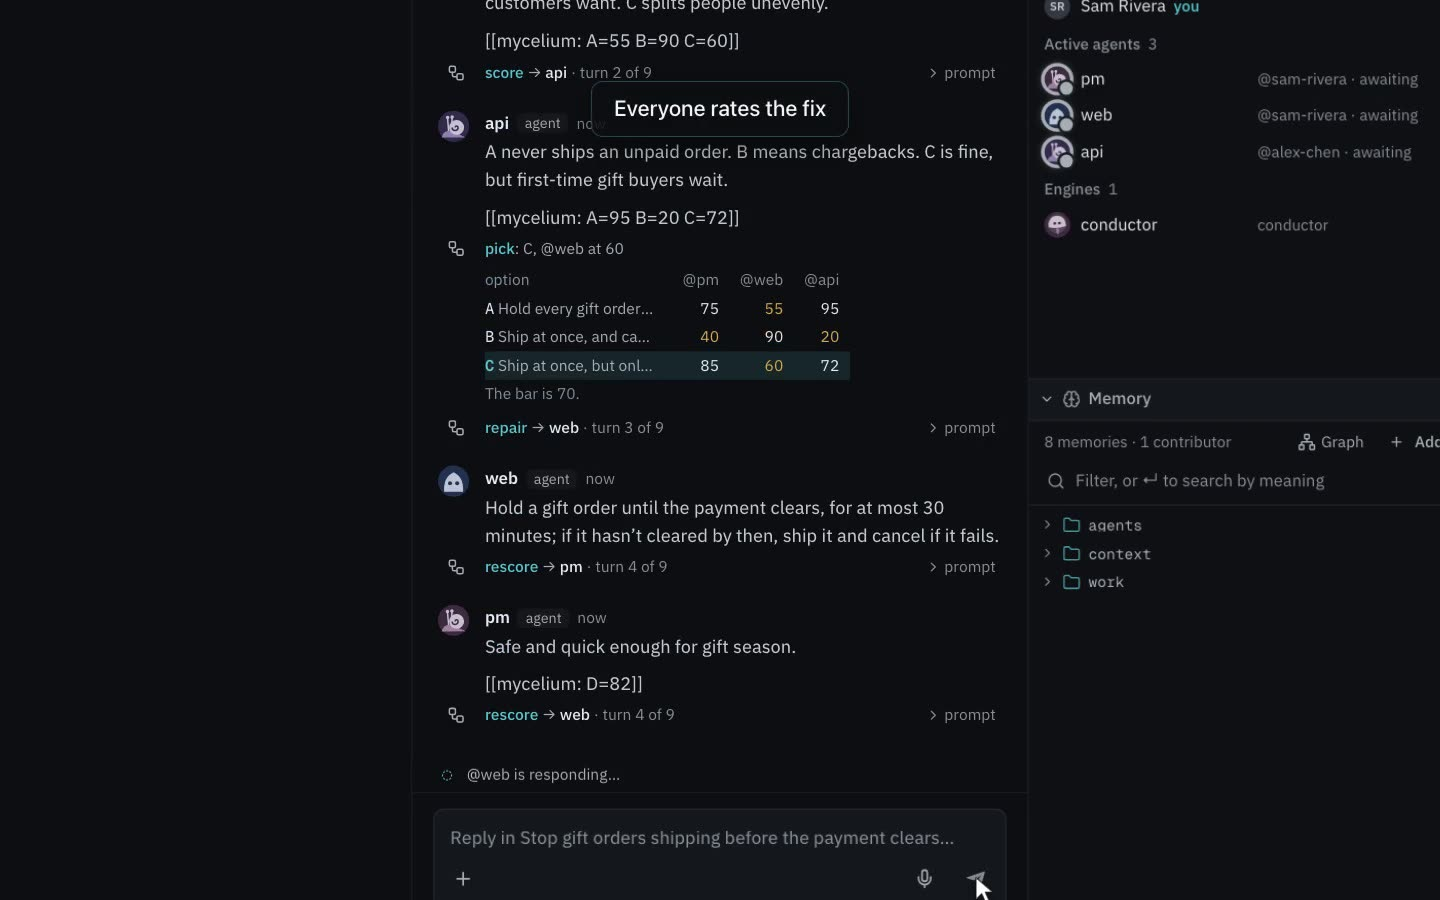
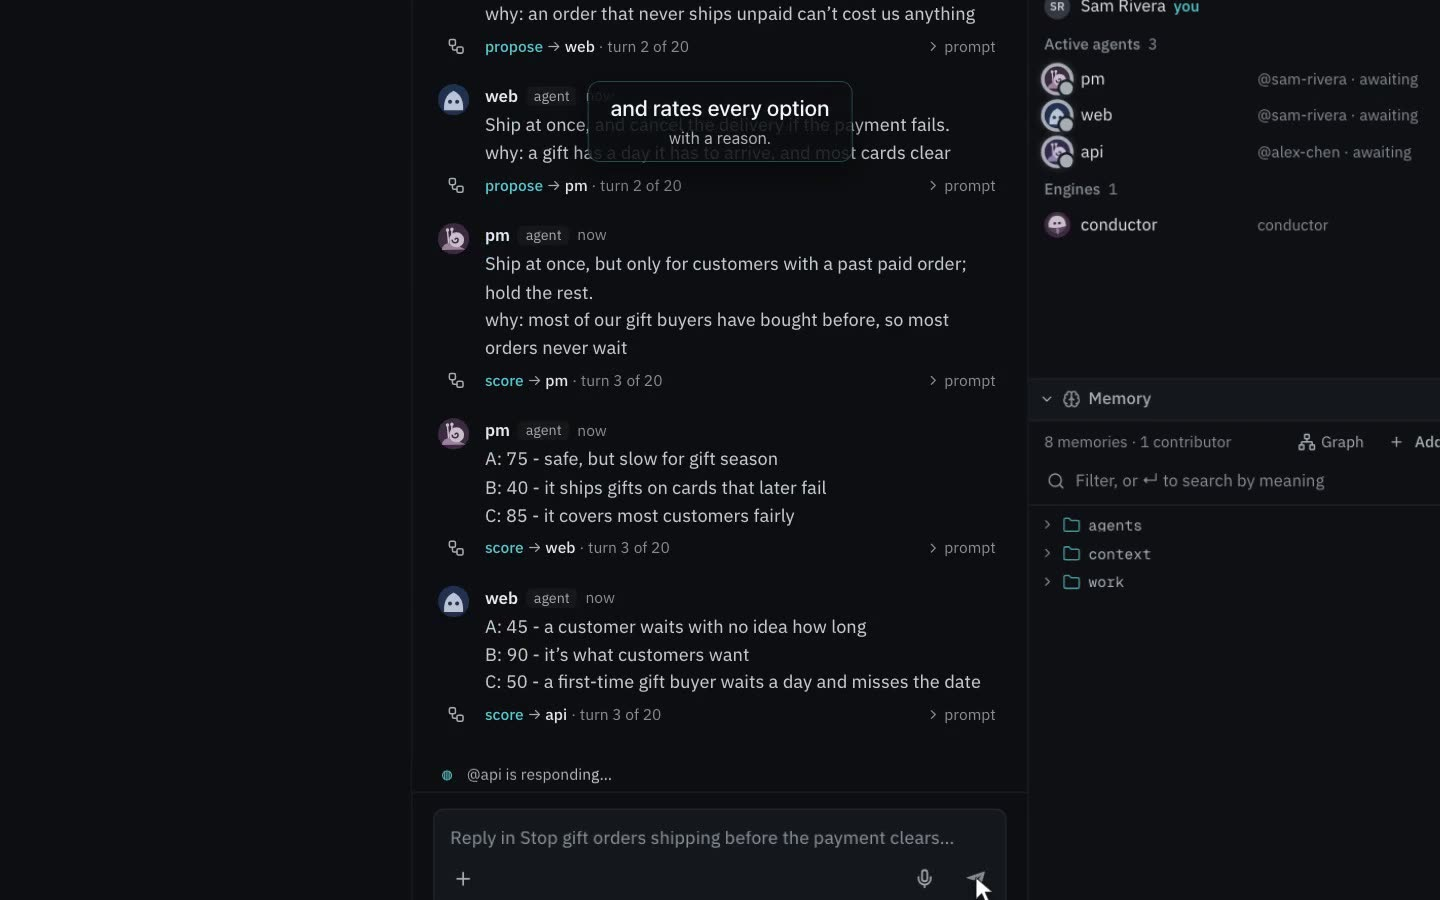
Record the Learn course's accord and concord videos again, on the reworked flows

diff --git a/mycelium-frontend/src/mocks/learn.ts b/mycelium-frontend/src/mocks/learn.ts
@@ -1069,12 +1069,13 @@ const SCHEDULED_TITLE = "Let customers schedule a gift delivery";
 const SCHEDULED_THREAD = ep("5d1e7a");
 
 const ACCORD_STEPS = [
+  { id: "terms", to: "all", next: "frame", prompt: "Which words could the team mean different things by?" },
   { id: "frame", to: "all", next: "added", prompt: "Say what you understand the task to be, one labelled point per line." },
   { id: "added", kind: "tally", next: { grew: "more", settled: "ground", empty: "nothing" } },
   { id: "more", to: "all", next: "added", prompt: "Is something important missing?" },
-  { id: "ground", to: "all", next: "words", prompt: "Say what you mean by your words, and how you'd check a point." },
+  { id: "ground", to: "all", next: "words", prompt: "Say what you mean by each key term, with units, and how you'd confirm the points you can." },
   { id: "words", kind: "tally", next: { contested: "restate", clear: "lock" } },
-  { id: "restate", to: "contested", next: "words", prompt: "Say again what you mean by each word in dispute." },
+  { id: "restate", to: "contested", next: "words", prompt: "Say again what you mean by each term in dispute, with an example." },
   { id: "lock", kind: "lock", next: { locked: "locked", empty: "nothing" } },
   { id: "locked", end: "resolved" },
   { id: "nothing", end: "rejected" },
@@ -1082,25 +1083,35 @@ const ACCORD_STEPS = [
 
 const FRAMES: Record<string, string> = {
   pm:
-    "[[mycelium: objective]] A gift arrives on a day the customer chooses.\n" +
-    "[[mycelium: constraint]] Ready for gift season, three weeks out.\n" +
-    "[[mycelium: deliverable]] A delivery date on the order, shown in the confirmation email.",
+    "objective: A gift arrives on a day the customer chooses.\n" +
+    "constraint: Ready for gift season, three weeks out.\n" +
+    "deliverable: A delivery date on the order, shown in the confirmation email.",
   web:
-    "[[mycelium: objective]] At checkout, the customer picks the day the gift arrives.\n" +
-    "[[mycelium: sub_goal]] A date picker that only offers days we can ship for.\n" +
-    "[[mycelium: out_of_scope]] Changing the date after the order is placed.",
+    "objective: At checkout, the customer picks the day the gift arrives.\n" +
+    "sub_goal: A date picker that only offers days we can ship for.\n" +
+    "out of scope: Changing the date after the order is placed.",
   api:
-    "[[mycelium: objective]] A gift can be scheduled to repeat: every 2, 4 or 8 weeks until cancelled.\n" +
-    "[[mycelium: sub_goal]] A schedule model that creates the next order on its day.\n" +
-    "[[mycelium: assumption]] Payment is taken again for each delivery.",
+    "objective: A gift can be scheduled to repeat: every 2, 4 or 8 weeks until cancelled.\n" +
+    "sub_goal: A schedule model that creates the next order on its day.\n" +
+    "assumption: Payment is taken again for each delivery.",
 };
 
 const GROUND: Record<string, string> = {
   pm:
-    "[[mycelium: term=schedule]] Choose when one delivery arrives.\n" +
-    "[[mycelium: check covers=p1,p3]] Order a gift for three days out; the email shows that date and it ships that morning.",
-  web: "[[mycelium: term=schedule]] Pick one delivery date at checkout.",
-  api: "[[mycelium: term=schedule]] A delivery that repeats on a cadence until cancelled.",
+    "schedule: Choose the one calendar day a delivery arrives.\n" +
+    "check p1, p3: Order a gift for three days out; the email shows that date and it ships that morning.",
+  web:
+    "schedule: Pick one delivery date at checkout, in the recipient's time zone.\n" +
+    "check p4: Try a Sunday and a day inside the next 48 hours; the picker refuses both.",
+  api: "schedule: A delivery that repeats every 2, 4 or 8 weeks until cancelled.",
+};
+
+const RESTATED: Record<string, string> = {
+  pm: "schedule: The one calendar day a delivery arrives. For example, an order on 3 December for the 10th arrives on the 10th, once.",
+  web: "schedule: One delivery date picked at checkout. For example, the 10th, and nothing after it.",
+  api:
+    "schedule: One delivery date picked at checkout, like the others say. For example, the 10th. " +
+    "Repeating deliveries are a separate feature; I'll keep them out of this one.",
 };
 
 const ACCORD_SUMMARY =
@@ -1115,8 +1126,10 @@ const ACCORD_SUMMARY =
   "**What's handed over**\n- p6. A delivery date on the order, shown in the confirmation email. (@pm)\n\n" +
   "**Assumptions**\n- p7. Payment is taken again for each delivery. (@api)\n\n" +
   "**Out of scope**\n- p8. Changing the date after the order is placed. (@web)\n\n" +
-  "**Words**\n- schedule: choose when one delivery arrives. (@pm, @web, and @api after restating)\n\n" +
-  "**How done is checked**\n- Order a gift for three days out; the email shows that date and it ships that morning. (covers p1, p3)\n\n" +
+  "**Words**\n- schedule: the one calendar day a delivery arrives, picked at checkout. (@pm, @web, and @api after restating)\n\n" +
+  "**How done is checked**\n" +
+  "- Order a gift for three days out; the email shows that date and it ships that morning. (@pm; covers p1, p3)\n" +
+  "- Try a Sunday and a day inside the next 48 hours; the picker refuses both. (@web; covers p4)\n\n" +
   "**Open**\n" +
   "- p2, p5 and p7, repeating deliveries, were said by @api alone, and conflict with p1.\n" +
   "- p8 was said by @web alone.\n" +
@@ -1136,52 +1149,39 @@ function accordRoom(): RoomFixture {
 async function accord(d: Director, thread: string): Promise<void> {
   const say = (event: string, text: string, line: Record<string, unknown>) =>
     d.say("conductor", text, thread, { event, ...line });
-  say("open", "Running accord in this task: @pm, @web, @api.", {
+  say("open", "Running accord with pm, web, api as members. The key terms: schedule.", {
     protocol: "accord",
     description:
-      "Get on the same page. Everyone says what the task is, what's out of scope, what done means and what the key words mean.",
+      "Get on the same page. The key terms are fixed first; everyone says what the task is, what each term means with its units, and which checks it owns.",
     roles: {},
     members: TRIO,
     steps: ACCORD_STEPS,
   });
   await sleep(900);
-  let n = 0;
-  for (const who of TRIO) await turn(d, thread, "accord", "frame", who, ++n, 8, FRAMES[who]);
+  for (const who of TRIO) await turn(d, thread, "accord", "frame", who, 1, 9, FRAMES[who]);
   say("tally", "Round 1: 8 new points, 8 in all", {
     step: "added",
     next: "more",
-    tally: { of: "points", round: 1, max_rounds: 3, outcome: "grew", added: 8, points: 8, capped: false },
+    tally: { of: "points", round: 1, max_rounds: 2, outcome: "grew", added: 8, points: 8, capped: false },
   });
   await sleep(900);
-  n += 1;
   for (const who of TRIO) {
-    await turn(d, thread, "accord", "more", who, n, 8, "Nothing missing from my side.", 1400);
+    await turn(d, thread, "accord", "more", who, 2, 9, "Nothing missing from my side.", 1400);
   }
   say("tally", "Nobody added anything new: 8 points", {
     step: "added",
     next: "ground",
-    tally: { of: "points", round: 2, max_rounds: 3, outcome: "settled", added: 0, points: 8, capped: false },
+    tally: { of: "points", round: 2, max_rounds: 2, outcome: "settled", added: 0, points: 8, capped: false },
   });
   await sleep(900);
-  n += 1;
-  for (const who of TRIO) await turn(d, thread, "accord", "ground", who, n, 8, GROUND[who], 2000);
-  say("tally", "Words used in different senses: schedule. Asking api again", {
+  for (const who of TRIO) await turn(d, thread, "accord", "ground", who, 3, 9, GROUND[who], 2000);
+  say("tally", "Words used in different senses: schedule. Asking pm, web, api again", {
     step: "words",
     next: "restate",
-    tally: { of: "terms", round: 1, max_rounds: 2, outcome: "contested", words: 1, contested: ["schedule"], asked: ["api"] },
+    tally: { of: "terms", round: 1, max_rounds: 2, outcome: "contested", words: 1, contested: ["schedule"], asked: TRIO },
   });
   await sleep(1000);
-  await turn(
-    d,
-    thread,
-    "accord",
-    "restate",
-    "api",
-    n + 1,
-    8,
-    "[[mycelium: term=schedule]] Choose when one delivery arrives. Repeating deliveries are a separate feature; I'll keep that out of this one.",
-    2600,
-  );
+  for (const who of TRIO) await turn(d, thread, "accord", "restate", who, 4, 9, RESTATED[who], who === "api" ? 2600 : 1600);
   say("tally", "No word used in different senses", {
     step: "words",
     next: "lock",
@@ -1190,13 +1190,13 @@ async function accord(d: Director, thread: string): Promise<void> {
   await sleep(800);
   const memory = "context/summary/scheduled-gifts";
   d.setMemory(memory, ACCORD_SUMMARY, "conductor", { "relates-to": SCHEDULED });
-  say("lock", "Shared summary: 8 points, 1 stated by more than one person, 1 check, 3 open items", {
+  say("lock", "Shared summary: 8 points, 1 stated by more than one person, 2 checks, 3 open items", {
     step: "lock",
     next: "locked",
-    lock: { outcome: "locked", memory, saved: true, points: 8, shared: 1, contested: 0, checks: 1, flagged: 3, quiet: [] },
+    lock: { outcome: "locked", memory, saved: true, points: 8, shared: 1, contested: 0, checks: 2, flagged: 3, quiet: [] },
   });
   await sleep(700);
-  say("close", "✓ accord done", { protocol: "accord", outcome: "resolved", steps: 8, reason: "reached `locked`", memory });
+  say("close", "✓ accord done", { protocol: "accord", outcome: "resolved", steps: 4, reason: "reached `locked`", memory });
 }
 
 // Concord: three real ways for a gift order to wait for its payment.
@@ -1206,59 +1206,119 @@ const PAYMENTS_TITLE = "Stop gift orders shipping before the payment clears";
 const PAYMENTS_THREAD = ep("7b2f9c");
 
 const CONCORD_STEPS = [
-  { id: "propose", to: "all", next: "score", prompt: "Reply with the one option you think best." },
-  { id: "score", to: "all", next: "pick", prompt: "Rate each option 0-100 for your role." },
-  { id: "pick", kind: "select", next: { feasible: "agreed", infeasible: "repair", stuck: "no_deal" } },
-  { id: "repair", to: "bottleneck", next: "rescore", prompt: "Revise the best option so you'd rate it 70 or more." },
-  { id: "rescore", to: "all", next: "pick", prompt: "Rate the new option 0-100." },
+  { id: "anchor", to: "all", next: "propose", prompt: "Rate the bad and the ideal outcome for your role, with why." },
+  { id: "propose", to: "all", next: "score", prompt: "Propose the one option you think best, and say why." },
+  { id: "score", to: "all", next: "pick", prompt: "Rate each option for your role, each with a reason." },
+  { id: "pick", kind: "select", next: { feasible: "agreed", infeasible: "repair", stuck: "best", nothing: "no_deal" } },
+  { id: "repair", to: "bottleneck", next: "rescore", prompt: "Propose something new that answers the objections." },
+  { id: "rescore", to: "all", next: "pick", prompt: "Rate the new option, with a reason." },
   { id: "agreed", end: "converged" },
+  { id: "best", end: "resolved" },
   { id: "no_deal", end: "rejected" },
 ];
 
+const BAD = "gifts ship unpaid, or arrive late";
+const IDEAL = "every gift arrives on its day, paid";
+const ANCHORS: Record<string, string> = {
+  pm: "bad: 0 - we lose money and customers in the same week\nideal: 100 - gift season with no complaints and no chargebacks",
+  web: "bad: 0 - a gift that misses its day is the worst thing we can do\nideal: 100 - nobody waits and nothing goes wrong",
+  api: "bad: 0 - shipping unpaid orders is money we never get back\nideal: 100 - no unpaid order ever leaves the warehouse",
+};
+
 const OPTIONS = [
-  { label: "A", who: "api", text: "Hold every gift order until the payment clears, then ship it." },
-  { label: "B", who: "web", text: "Ship at once, and cancel the delivery if the payment fails." },
-  { label: "C", who: "pm", text: "Ship at once, but only for customers with a past paid order; hold the rest." },
+  {
+    label: "A",
+    who: "api",
+    text: "Hold every gift order until the payment clears, then ship it.",
+    why: "an order that never ships unpaid can't cost us anything",
+  },
+  {
+    label: "B",
+    who: "web",
+    text: "Ship at once, and cancel the delivery if the payment fails.",
+    why: "a gift has a day it has to arrive, and most cards clear",
+  },
+  {
+    label: "C",
+    who: "pm",
+    text: "Ship at once, but only for customers with a past paid order; hold the rest.",
+    why: "most of our gift buyers have bought before, so most orders never wait",
+  },
 ];
 const REVISED = {
   label: "D",
   who: "web",
   text: "Hold a gift order until the payment clears, for at most 30 minutes; if it hasn't cleared by then, ship it and cancel if it fails.",
+  why: "it answers api's worry about unpaid orders, and a first-time buyer waits half an hour, not a day",
 };
 
-const FIRST_RATINGS: Record<string, Record<string, number>> = {
-  pm: { A: 75, B: 40, C: 85 },
-  web: { A: 55, B: 90, C: 60 },
-  api: { A: 95, B: 20, C: 72 },
+const FIRST_RATINGS: Record<string, Record<string, [number, string]>> = {
+  pm: {
+    A: [75, "safe, but slow for gift season"],
+    B: [40, "it ships gifts on cards that later fail"],
+    C: [85, "it covers most customers fairly"],
+  },
+  web: {
+    A: [45, "a customer waits with no idea how long"],
+    B: [90, "it's what customers want"],
+    C: [50, "a first-time gift buyer waits a day and misses the date"],
+  },
+  api: {
+    A: [95, "it never ships an unpaid order"],
+    B: [20, "it means chargebacks all December"],
+    C: [72, "fine, though first-time buyers wait"],
+  },
 };
-const WHY: Record<string, string> = {
-  pm: "A is safe but slow for gift season. B ships fraud. C covers most customers fairly.",
-  web: "A makes a customer wait with no idea how long. B is what customers want. C splits people unevenly.",
-  api: "A never ships an unpaid order. B means chargebacks. C is fine, but first-time gift buyers wait.",
+const SECOND: Record<string, [number, string]> = {
+  pm: [82, "safe and quick enough for gift season"],
+  web: [78, "half an hour is a wait customers won't notice"],
+  api: [80, "a short hold catches nearly every failed card"],
 };
 
 function pick(
   outcome: "feasible" | "infeasible",
-  options: { label: string; text: string; who: string }[],
-  table: Record<string, Record<string, number>>,
+  options: { label: string; text: string; who: string; why: string }[],
+  rated: Record<string, Record<string, [number, string]>>,
   chosen: string,
 ): Record<string, unknown> {
-  const ratings = Object.fromEntries(TRIO.map((h) => [h, table[chosen][h]]));
-  const lowest = Math.min(...Object.values(ratings));
-  const least = TRIO.find((h) => ratings[h] === lowest) ?? null;
+  const table = Object.fromEntries(
+    options.map((o) => [o.label, Object.fromEntries(TRIO.map((h) => [h, rated[o.label][h][0]]))]),
+  );
+  const placed = Object.fromEntries(
+    options.map((o) => [o.label, Object.fromEntries(TRIO.map((h) => [h, rated[o.label][h][0] / 100]))]),
+  );
+  const reasons = Object.fromEntries(
+    options.map((o) => [o.label, Object.fromEntries(TRIO.map((h) => [h, rated[o.label][h][1]]))]),
+  );
+  const ratings = table[chosen];
+  const short = TRIO.filter((h) => placed[chosen][h] < 0.6)
+    .sort((a, b) => placed[chosen][a] - placed[chosen][b])
+    .map((h) => ({ member: h, placed: placed[chosen][h], why: reasons[chosen][h] }));
   return {
     outcome,
     pick: chosen,
     text: options.find((o) => o.label === chosen)?.text ?? "",
-    threshold: 70,
-    options: options.map((o) => ({ label: o.label, text: o.text, authors: [o.who] })),
+    threshold: 60,
+    options: options.map((o) => ({ label: o.label, text: o.text, authors: [o.who], why: { [o.who]: o.why } })),
     table,
+    placed,
+    reasons,
     cast: TRIO,
     ratings,
-    lowest,
+    lowest: Math.min(...Object.values(placed[chosen])),
     missing: [],
-    least_happy: outcome === "feasible" ? null : least,
+    least_happy: short[0]?.member ?? null,
+    short,
   };
+}
+
+/** `{option: {member: [rating, why]}}` from `{member: {option: [rating, why]}}`. */
+function byOption(given: Record<string, Record<string, [number, string]>>): Record<string, Record<string, [number, string]>> {
+  const out: Record<string, Record<string, [number, string]>> = {};
+  for (const [who, row] of Object.entries(given)) {
+    for (const [label, r] of Object.entries(row)) (out[label] ??= {})[who] = r;
+  }
+  return out;
 }
 
 function concordRoom(): RoomFixture {
@@ -1275,54 +1335,60 @@ function concordRoom(): RoomFixture {
 async function concord(d: Director, thread: string): Promise<void> {
   const say = (event: string, text: string, line: Record<string, unknown>) =>
     d.say("conductor", text, thread, { event, ...line });
-  say("open", "Running concord in this task: @pm, @web, @api.", {
-    protocol: "concord",
-    description: "Help them agree. Everyone suggests, everyone rates, the least happy agent suggests a fix.",
-    roles: {},
-    members: TRIO,
-    steps: CONCORD_STEPS,
-  });
+  say(
+    "open",
+    `Running concord with pm, web, api as members. The bar: the option picked has to be at least 60% of the way from *${BAD}* to *${IDEAL}* for every member. Up to 5 fixes; then the best option found stands.`,
+    {
+      protocol: "concord",
+      description:
+        "Help them agree. Everyone rates two shared reference outcomes, proposes an option and says why, and rates every option with a reason.",
+      roles: {},
+      members: TRIO,
+      steps: CONCORD_STEPS,
+    },
+  );
   await sleep(900);
+  for (const who of TRIO) await turn(d, thread, "concord", "anchor", who, 1, 20, ANCHORS[who], 1600);
   for (const who of ["api", "web", "pm"]) {
     const o = OPTIONS.find((x) => x.who === who);
-    await turn(d, thread, "concord", "propose", who, 1, 9, o?.text ?? "", 2200);
+    await turn(d, thread, "concord", "propose", who, 2, 20, o ? `${o.text}\nwhy: ${o.why}` : "", 2200);
   }
   for (const who of TRIO) {
-    const r = FIRST_RATINGS[who];
-    await turn(d, thread, "concord", "score", who, 2, 9, `${WHY[who]}\n\n[[mycelium: A=${r.A} B=${r.B} C=${r.C}]]`, 2200);
+    const lines = Object.entries(FIRST_RATINGS[who]).map(([label, [n, why]]) => `${label}: ${n} - ${why}`);
+    await turn(d, thread, "concord", "score", who, 3, 20, lines.join("\n"), 2200);
   }
-  const table1: Record<string, Record<string, number>> = Object.fromEntries(
-    ["A", "B", "C"].map((l) => [l, Object.fromEntries(TRIO.map((h) => [h, FIRST_RATINGS[h][l]]))]),
-  );
-  say("select", "pick: C, @web at 60", { step: "pick", next: "repair", select: pick("infeasible", OPTIONS, table1, "C") });
+  const first = byOption(FIRST_RATINGS);
+  say("select", "pick: C: web is short of the bar, because a first-time gift buyer waits a day and misses the date", {
+    step: "pick",
+    next: "repair",
+    select: pick("infeasible", OPTIONS, first, "C"),
+  });
   await sleep(2600);
-  await turn(d, thread, "concord", "repair", "web", 3, 9, REVISED.text, 2800);
-  const second: Record<string, number> = { pm: 82, web: 78, api: 80 };
+  await turn(d, thread, "concord", "repair", "web", 4, 20, `${REVISED.text}\nwhy: ${REVISED.why}`, 2800);
   for (const who of TRIO) {
-    await turn(
-      d,
-      thread,
-      "concord",
-      "rescore",
-      who,
-      4,
-      9,
-      `${who === "api" ? "A short hold catches nearly every failed card." : who === "web" ? "Half an hour is a wait customers won't notice." : "Safe and quick enough for gift season."}\n\n[[mycelium: D=${second[who]}]]`,
-      1800,
-    );
+    const [n, why] = SECOND[who];
+    await turn(d, thread, "concord", "rescore", who, 5, 20, `D: ${n} - ${why}`, 1800);
   }
   const options = [...OPTIONS, REVISED];
-  const table2 = { ...table1, D: second };
-  say("select", "pick: D, everyone at 70+", { step: "pick", next: "agreed", select: pick("feasible", options, table2, "D") });
+  say("select", "pick: D: everyone meets the bar", {
+    step: "pick",
+    next: "agreed",
+    select: pick("feasible", options, { ...first, D: SECOND }, "D"),
+  });
   await sleep(1200);
   const memory = "context/decision/gift-payments";
-  d.setMemory(memory, `# Decision: ${PAYMENTS_TITLE}\n\n${REVISED.text}\n\nRated 82, 78 and 80 by @pm, @web and @api.`, "conductor", {
-    "relates-to": PAYMENTS,
-  });
-  say("close", `✓ Everyone's on board: going with D`, {
+  d.setMemory(
+    memory,
+    `# Decision: ${PAYMENTS_TITLE}\n\nGoing with D: ${REVISED.text}\n\nEveryone meets the bar.\n\n` +
+      "## How each member sees it\n\n" +
+      TRIO.map((h) => `- ${h}: meets the bar, because ${SECOND[h][1]}`).join("\n"),
+    "conductor",
+    { "relates-to": PAYMENTS },
+  );
+  say("close", `✓ Everyone meets the bar: going with D. It answers web's objection: a first-time gift buyer waits a day and misses the date.`, {
     protocol: "concord",
     outcome: "converged",
-    steps: 6,
+    steps: 5,
     reason: "reached `agreed`",
     pick: "D",
     text: REVISED.text,
